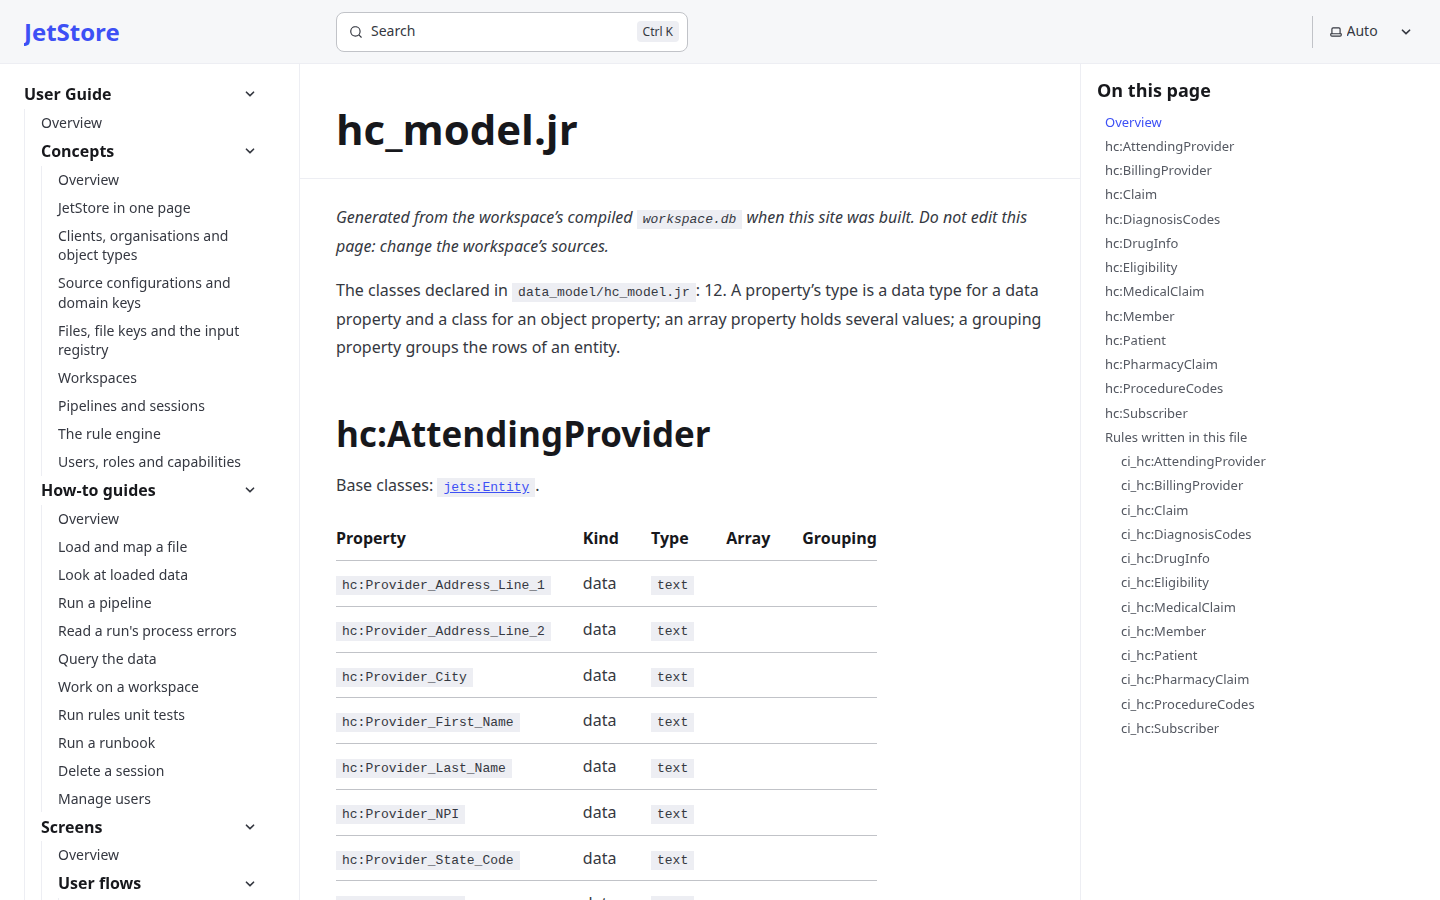
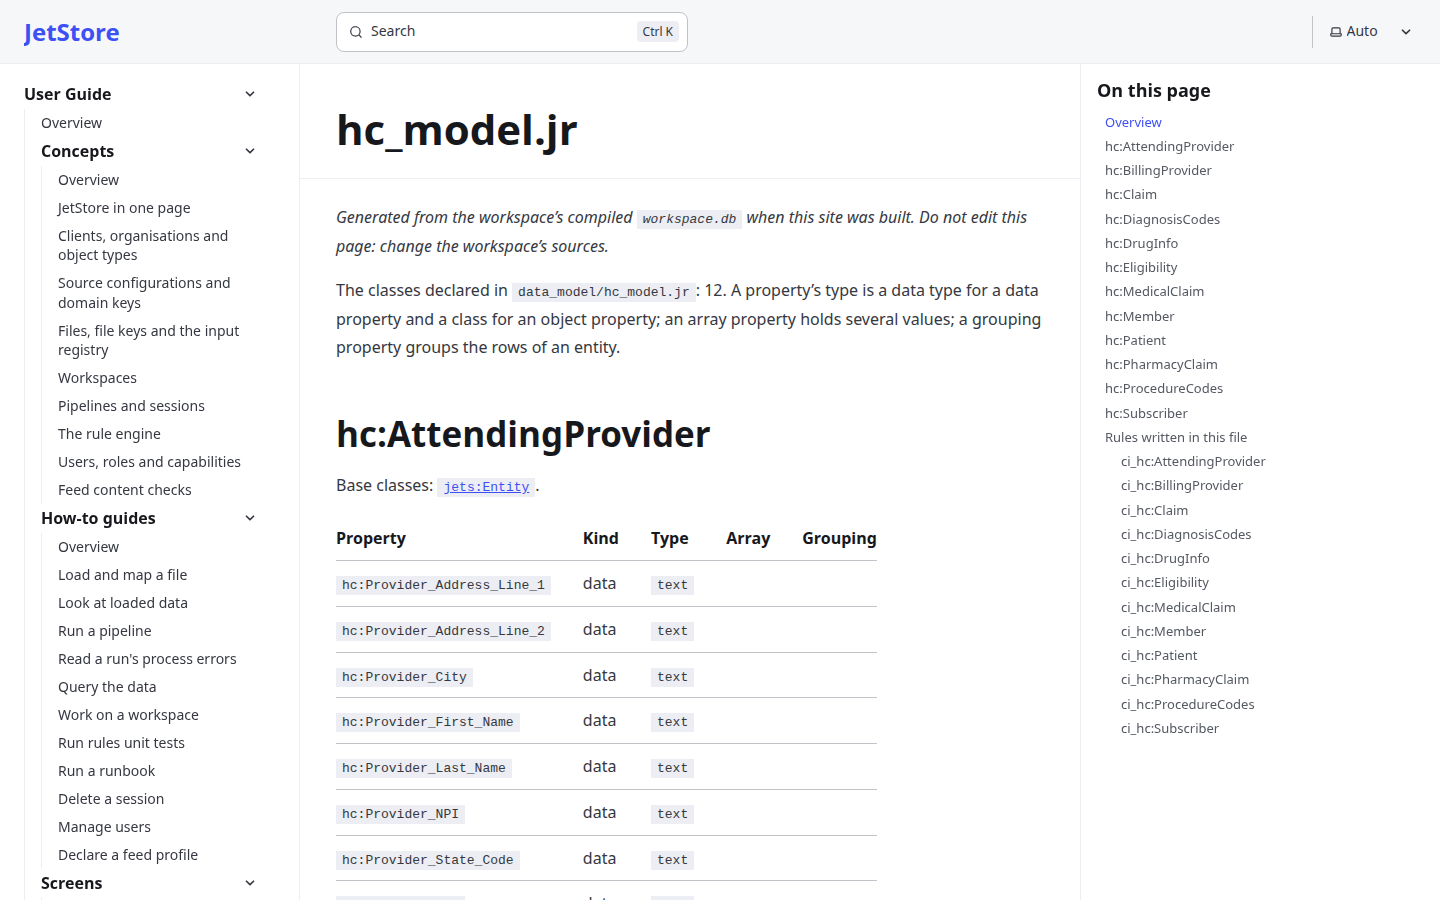
Screenshots at the 4.1.13 cut: the feed profile page and the feed checks
The Source Configuration spec stopped one page short of the summary: the
flow now asks for a feed profile before it, so the spec waited for Save on
the Feed Profile (json) page and failed. It now takes that page as an image
of its own, and the flow's User Guide page shows it under "The feed profile".

Rewritten by the run: the Detection screen's two images, which now carry the
Feed checks column (its caption says so), and eleven Workspace IDE images,
where the tree shows the agentic data model files at their new sizes.

Changed region(s): [[0.0312, 0.5289, 0.1562, 0.9956]]

diff --git a/docs/screenshots/specs/workspace/source-configuration.spec.ts b/docs/screenshots/specs/workspace/source-configuration.spec.ts
@@ -1,6 +1,6 @@
 // The Source Configuration flow (user/screens/flows/source-configuration):
 // CI's source configurations, the add page, and each page of the edit of
-// hc:PharmacyClaim up to its summary. Nothing is saved: the summary is left
+// hc:PharmacyClaim, its feed profile included, up to its summary. Nothing is saved: the summary is left
 // with Cancel.
 import { expect, test } from "@playwright/test";
 import { openFlowMenu, screenshotsFor, settle, signIn, tick, waitForTable } from "../../lib/shots";
@@ -44,6 +44,11 @@ test("Source Configuration flow", async ({ page }) => {
   await next.click();
   await expect(page.getByLabel("Schema Provider JSON")).toBeVisible();
   await settle(page);
+
+  await next.click();
+  await expect(page.getByLabel("Feed Profile (json)")).toBeVisible();
+  await settle(page);
+  await shot(page, "feed-profile");
 
   await next.click();
   await expect(page.getByRole("button", { name: "Save", exact: true })).toBeVisible();

diff --git a/docs/src/content/docs/user/screens/detection.md b/docs/src/content/docs/user/screens/detection.md
@@ -14,7 +14,7 @@ on whose request and with what result, and can start it now.
 
 **Reach it** from *Detection* in the top bar. It needs the `agent_supervision` capability.
 
-![The Detection screen: the task is not part of this deployment, so Run detection now is disabled; two tasks are listed, a manual one over 168 hours and a scheduled one over 26 hours, each with its anomaly detection and shadow triage results, both ok.](../../../../assets/screenshots/user/screens/detection/detection.png)
+![The Detection screen: the task is not part of this deployment, so Run detection now is disabled; two tasks are listed, a manual one over 168 hours and a scheduled one over 26 hours, each with its anomaly detection, feed checks and shadow triage results, all ok; the feed checks judged no feed, because neither of the two has a profile.](../../../../assets/screenshots/user/screens/detection/detection.png)
 
 ## The bar
 

diff --git a/docs/src/content/docs/user/screens/flows/source-configuration.md b/docs/src/content/docs/user/screens/flows/source-configuration.md
@@ -102,6 +102,8 @@ Three pages of text, each optional:
 
 One more page of text, optional, before the summary:
 
+![The Feed Profile page of hc:PharmacyClaim: an empty Feed Profile (json) box whose placeholder names what a profile holds and that declared_by and declared_at are required, with Previous, Cancel and Next.](../../../../../assets/screenshots/user/screens/flows/source-configuration/feed-profile.png)
+
 | Page | Field |
 |---|---|
 | Feed profile | **Feed Profile (json)**: when the feed's deliveries are due, how large one is, where its claims are and the thresholds they are judged against, with who declared it and when. Leave it empty and the feed is not judged; empty it and save to remove a profile. |
